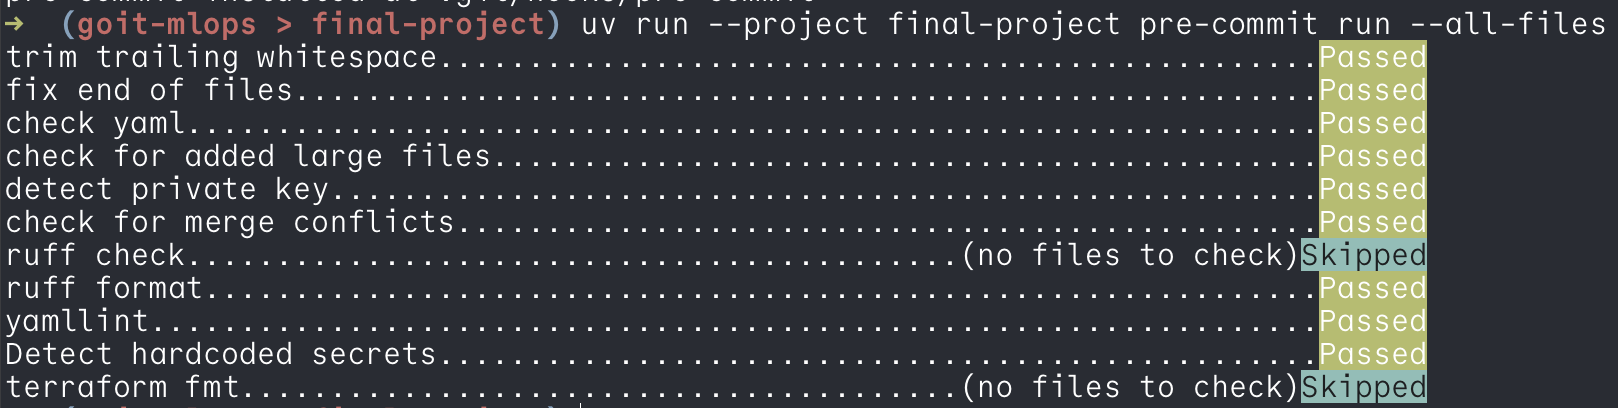
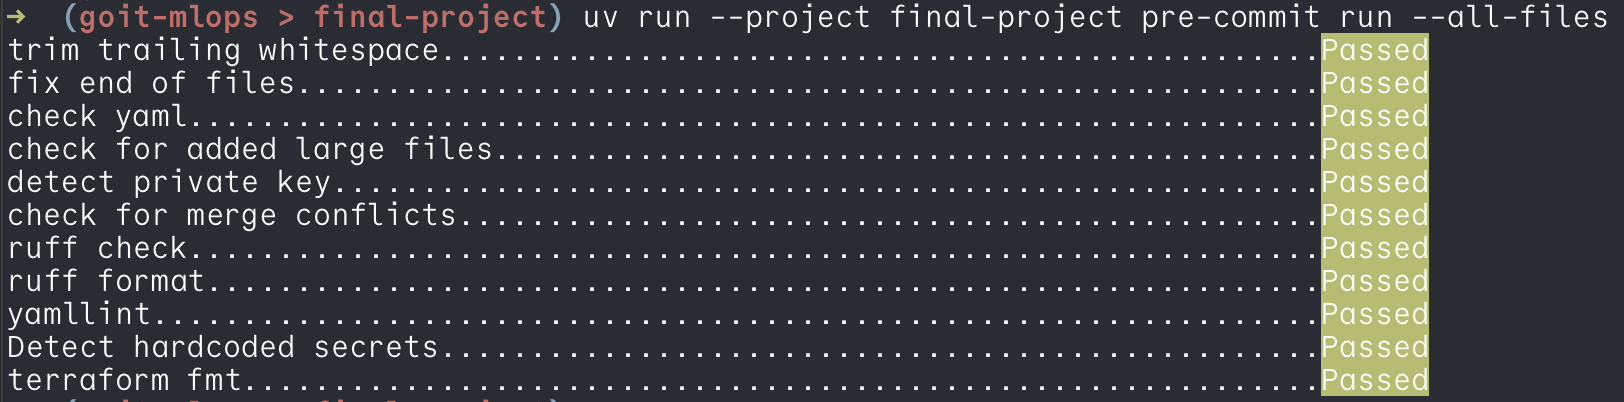
Add screenshots of the Terraform and GitOps checks and the extended pipeline

diff --git a/final-project/README.md b/final-project/README.md
@@ -685,10 +685,11 @@ Only `push-images` touches AWS, and it uses OIDC: no access key is stored
 anywhere. It skips an image whose tag is already in ECR, because ECR tags are
 immutable and a re-run of the same commit must not fail.
 
-![all CI jobs green](docs/screenshots/10-ci-all-jobs-green.png)
+![all CI jobs green](docs/screenshots/14-ci-terraform-gitops-green.png)
 
-> `TODO(after deploy): replace this screenshot with one that also shows the
-> terraform, gitops and push-images jobs green.`
+`push-images` is skipped in this run because the AWS side did not exist yet.
+
+> `TODO(after deploy): add a screenshot of a run where push-images is green.`
 
 ### The two validation scripts
 
@@ -706,6 +707,10 @@ is written down twice. It also checks that every Helm parameter an Application
 passes is really a key of the chart it passes it to. It ends with a table of
 127 resources across 16 components.
 
+![terraform checks](docs/screenshots/11-validate-terraform.png)
+
+![every rendered component checked](docs/screenshots/12-validate-gitops.png)
+
 ### GitLab
 
 `final-project/.gitlab-ci.yml` is the same pipeline written for GitLab, because
@@ -716,6 +721,8 @@ the assignment asks for GitLab CI and this project is on GitHub. The `lint`,
 ```bash
 gitlab-ci-local --file final-project/.gitlab-ci.yml gitops
 ```
+
+![the new jobs passing under gitlab-ci-local](docs/screenshots/13-gitlab-ci-local-new-jobs.png)
 
 `build-and-scan` needs the docker-in-docker service of a real runner, and
 `push-images` and `train` would need AWS to trust GitLab's OIDC provider as
